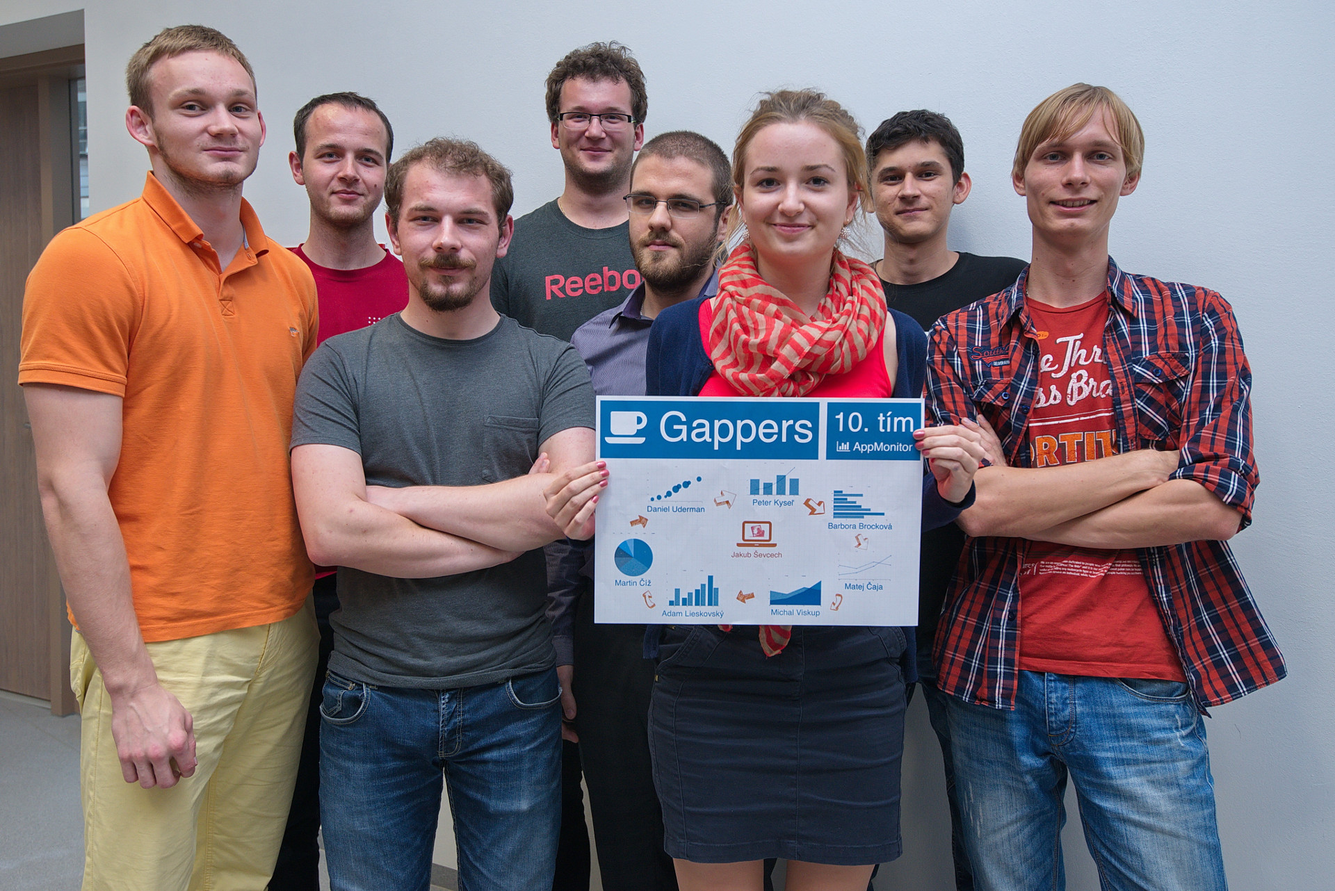
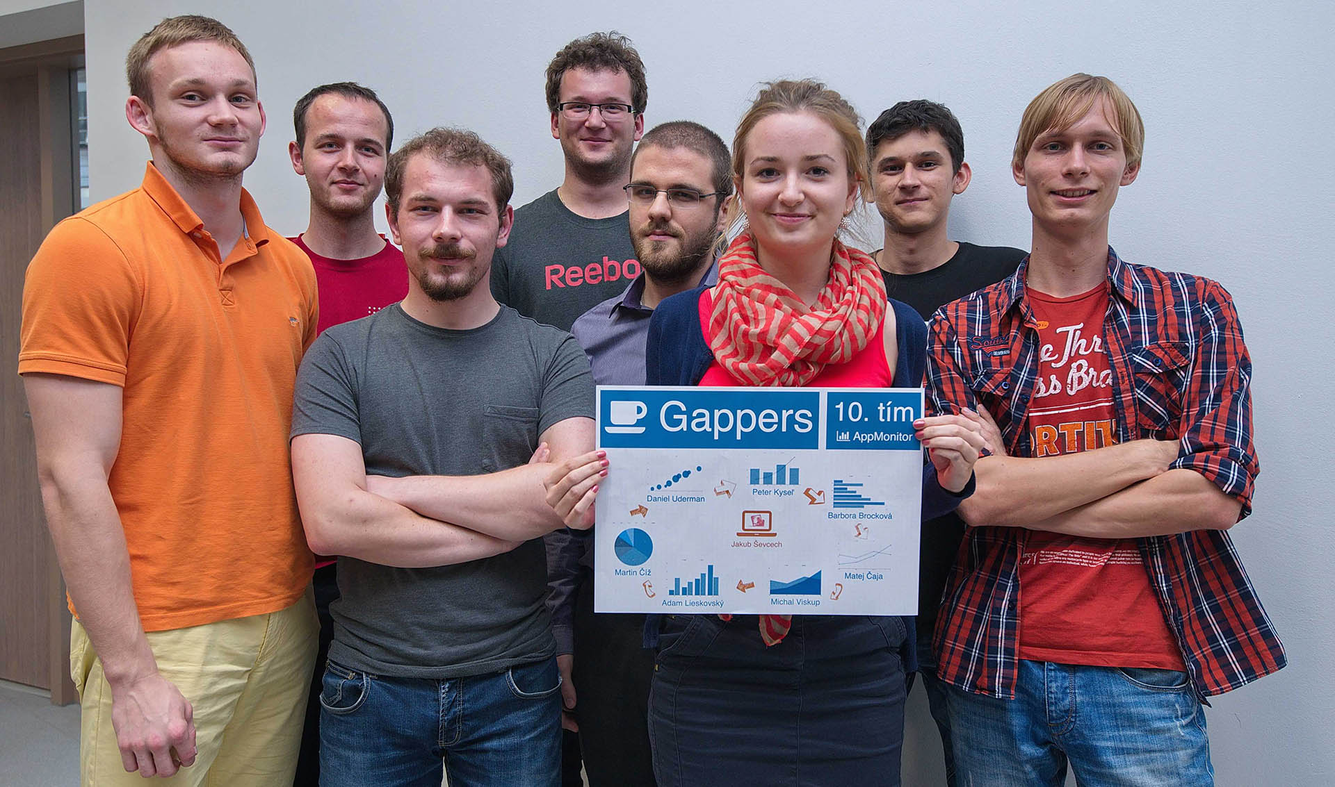
Fix team image, leave parallax effect

diff --git a/index.html b/index.html
@@ -222,8 +222,7 @@
         vedením a dohľadom Ing. Jakuba Ševcecha.
     </lead>
 
-    <section class="parallax parallax-2"></section>
-
+<img src="/images/group-photo.jpg"/>
     <h3>Čo znamená náš názov?</h3>
     <blockquote><p class="gappers-explained">The term, "Gapper" is derived from people found on the ski hill
         that generally sport the dreaded helmet gap. The gap that exists between the brim of a ski helmet and the frame of the ski goggles. Generally these people don't seem to care that a very visible 2" gap exists exposing their forehead to the elements.

diff --git a/css/style.css b/css/style.css
@@ -127,20 +127,6 @@ img.sample-error{
 
 }
 
-.parallax {
-	height: 600px;
-	width: 100%;
-	margin-top: 30px;
-	margin-bottom: 30px;
-	background-repeat: no-repeat;
-	background-attachment: fixed;
-	background-size: cover;
-}
-
-.parallax-2 {
-	background-image: url("/images/group-photo.jpg");
-}
-
 .thick{
     font-weight: 700;
 }
@@ -157,4 +143,9 @@ img.sample-error{
 }
 .centered{
     text-align: center;
+}
+
+.team-photo{
+    margin-top: 25px;
+    margin-bottom: 25px;
 }
